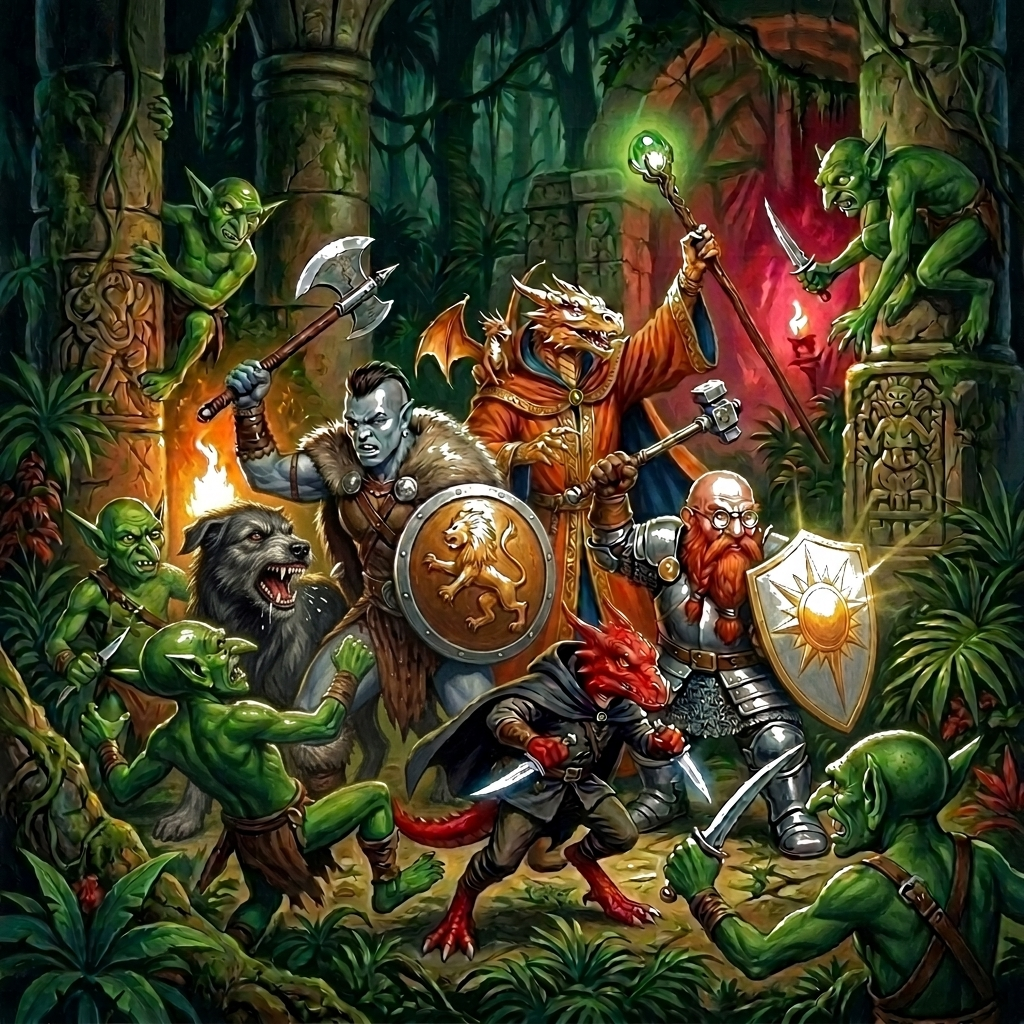
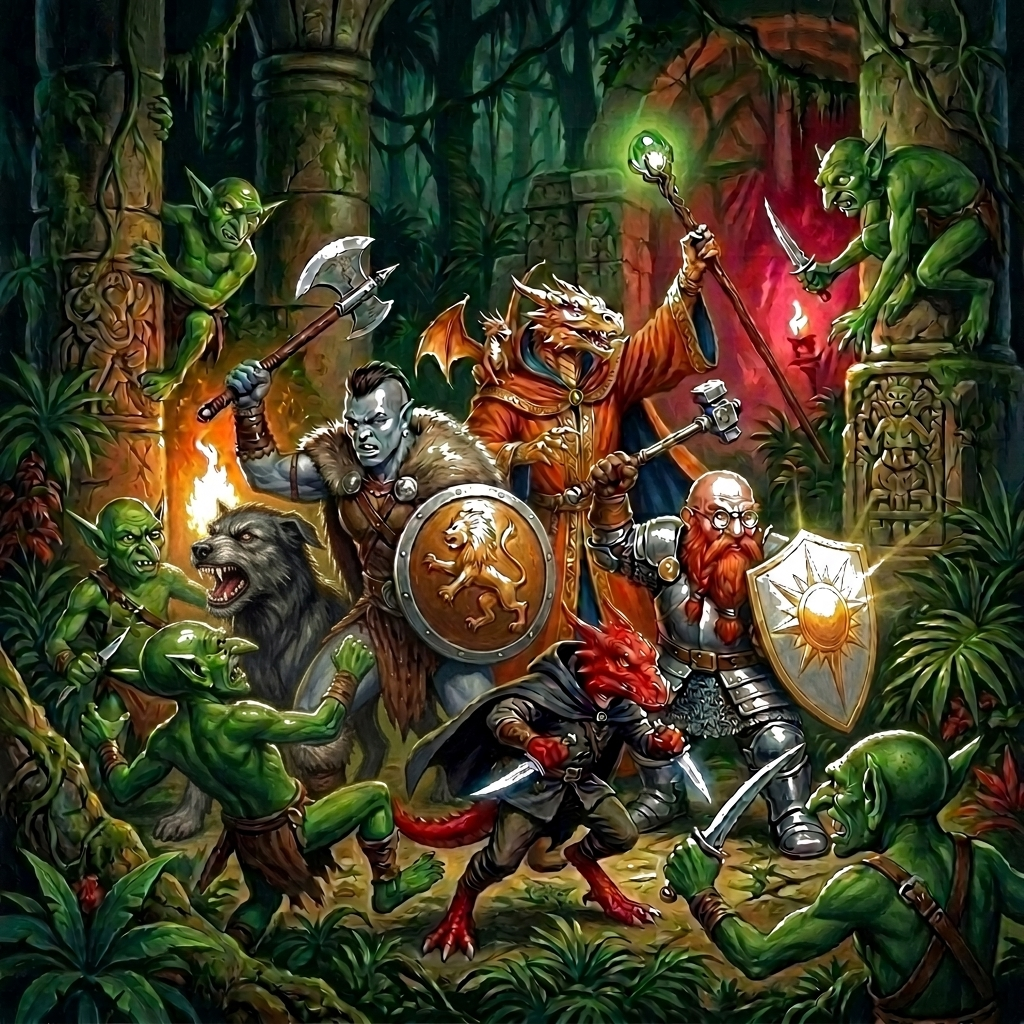
fix: turn Loki head directly left snarling at left goblin in cover art [skip netlify]

diff --git a/src/lib/build-info.ts b/src/lib/build-info.ts
@@ -1,3 +1,3 @@
 // Generated by scripts/write-build-info.mjs — do not edit
-export const SITE_EDITION = "289ef5d";
-export const SITE_BUILT_AT = "2026-07-27T16:17:06.282Z";
+export const SITE_EDITION = "801db44";
+export const SITE_BUILT_AT = "2026-07-27T16:17:47.480Z";
